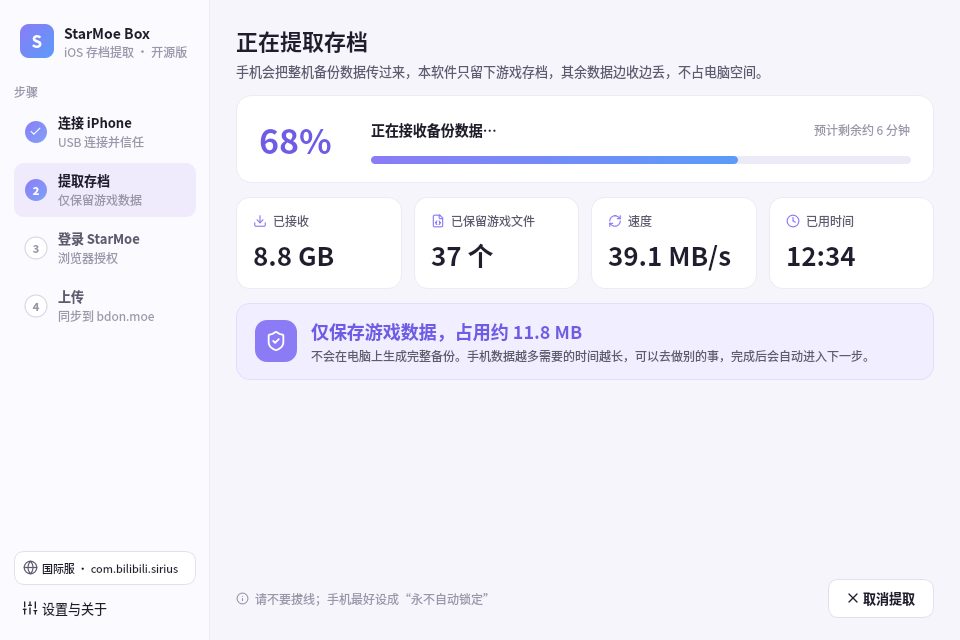
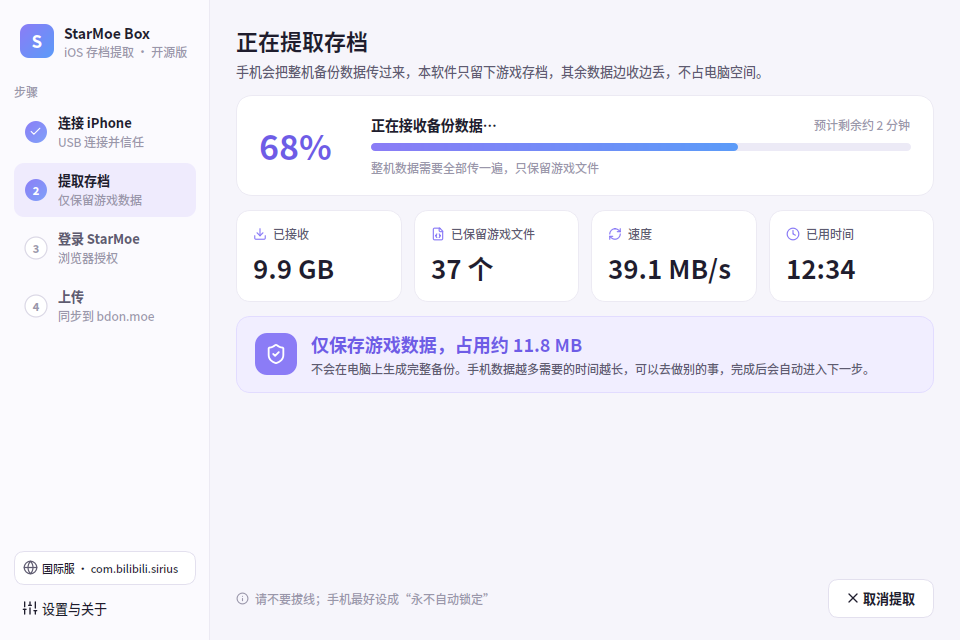
Treat the backup snapshot as preparing, and fix the ETA
The phone can sit at 0 bytes for several minutes while it snapshots. That read timeout was counted as a disconnect, so the yellow retry banner appeared before any data moved and then stayed up after the transfer recovered. Keep waiting through that idle period for up to 15 minutes, show an indeterminate preparing state, and hide the banner as soon as bytes arrive again.

The old ETA was elapsed time scaled by percent, so the snapshot wait inflated a 21-minute transfer into about three hours. Estimate the remainder from throughput over the last 45 seconds of actual transfer.

diff --git a/starmoe_ios/gui/pages.py b/starmoe_ios/gui/pages.py
@@ -21,6 +21,42 @@ def mmss(sec):
     return f"{sec // 3600}:{sec % 3600 // 60:02d}:{sec % 60:02d}" if sec >= 3600 else f"{sec // 60:02d}:{sec % 60:02d}"
 
 
+class TransferRate:
+    """最近一小段真实传输的速度。准备阶段（字节不增加）不计入。"""
+
+    def __init__(self, window=45.0):
+        self.window = window
+        self.samples = []
+        self.rate = 0.0
+
+    def observe(self, t, received, active):
+        if not active:
+            return self.rate
+        if self.samples and received < self.samples[-1][1]:
+            self.samples.clear()
+            self.rate = 0.0
+        if received <= 0 or (self.samples and received == self.samples[-1][1]):
+            return self.rate
+        self.samples.append((float(t), int(received)))
+        cutoff = t - self.window
+        while len(self.samples) >= 2 and self.samples[1][0] <= cutoff:
+            self.samples.pop(0)
+        if len(self.samples) >= 2:
+            t0, b0 = self.samples[0]
+            t1, b1 = self.samples[-1]
+            dt = t1 - t0
+            if dt > 0 and b1 > b0:
+                self.rate = (b1 - b0) / dt
+        return self.rate
+
+
+def eta_seconds(received, percent, rate):
+    """按当前速度和手机报告的百分比估算剩余秒数。与已经过去的墙钟时间无关。"""
+    if rate <= 0 or received <= 0 or not (0 < percent < 100):
+        return None
+    return received * (100.0 - percent) / percent / rate
+
+
 class Page(QWidget):
     action = Signal(str)   # 统一的动作信号（错误卡片按钮等）
 
@@ -416,7 +452,8 @@ class ExtractPage(Page):
         self.bar = QProgressBar()
         self.bar.setRange(0, 1000)
         self.bar.setTextVisible(False)
-        top.lay.addWidget(vbox(hbox(self.state, None, self.eta), self.bar, spacing=10), 1)
+        self.note = label("", "muted", wrap=True)
+        top.lay.addWidget(vbox(hbox(self.state, None, self.eta), self.bar, self.note, spacing=8), 1)
         self.body.addWidget(top)
         tiles = QHBoxLayout()
         tiles.setSpacing(12)
@@ -447,38 +484,57 @@ class ExtractPage(Page):
         self.btn_cancel = button("取消提取", None, "x")
         self.btn_cancel.clicked.connect(lambda: self.action.emit("cancel"))
         self.footer.addWidget(self.btn_cancel)
-        self._last = (0.0, 0)
+        self._rate = TransferRate()
         self._speed = 0.0
+        self._seen = 0
+        self._banner_mark = 0
 
     def reset(self):
         self.clear_error()
         self.retry.hide()
+        self._determinate()
         self.bar.setValue(0)
         self.pct.setText("0%")
         self.state.setText("正在连接 iPhone…")
         self.eta.setText("")
+        self.note.setText("")
         self.btn_cancel.setEnabled(True)
-        self._last = (time.time(), 0)
+        self._rate = TransferRate()
         self._speed = 0.0
+        self._seen = 0
+        self._banner_mark = 0
         self.update_stats(0, 0, 0, 0, 0, "connecting")
 
-    def update_stats(self, percent, received, kept, kept_bytes, elapsed, phase):
-        now = time.time()
-        t0, r0 = self._last
-        if now - t0 >= 1.0:
-            inst = (received - r0) / (now - t0)
-            self._speed = inst if not self._speed else 0.7 * self._speed + 0.3 * inst
-            self._last = (now, received)
+    def _determinate(self):
+        if self.bar.maximum() == 0:
+            self.bar.setRange(0, 1000)
+
+    def update_stats(self, percent, received, kept, kept_bytes, elapsed, phase, now=None):
+        now = time.time() if now is None else now
+        active = phase == "transferring" and received > 0
+        self._speed = self._rate.observe(now, received, active)
         p = max(0.0, min(100.0, percent))
-        self.pct.setText(f"{p:.0f}%")
-        self.bar.setValue(int(p * 10))
-        self.state.setText({"connecting": "正在连接 iPhone…",
-                            "waiting_device": "等待手机响应…如果手机要求输入密码，请输入锁屏密码",
-                            "transferring": "正在接收备份数据…", "finishing": "正在收尾…",
-                            "scanning": "正在解密并查找存档…"}.get(phase, phase))
-        if 3 < p < 100 and elapsed > 20:
-            rest = elapsed * (100 - p) / p
-            self.eta.setText(f"预计剩余约 {max(1, round(rest / 60))} 分钟")
+        if phase in ("preparing", "waiting_device") and received <= 0:
+            self.bar.setRange(0, 0)
+            self.pct.setText("…")
+            self.state.setText("手机正在准备备份数据，第一次可能需要 5–10 分钟，请保持亮屏")
+            self.eta.setText("如果手机要求输入密码，请输入锁屏密码")
+            self.note.setText("")
+        else:
+            self._determinate()
+            self.pct.setText(f"{p:.0f}%")
+            self.bar.setValue(int(p * 10))
+            self.state.setText({"connecting": "正在连接 iPhone…",
+                                "preparing": "手机正在准备备份数据，第一次可能需要 5–10 分钟，请保持亮屏",
+                                "waiting_device": "手机正在准备备份数据，第一次可能需要 5–10 分钟，请保持亮屏",
+                                "transferring": "正在接收备份数据…", "finishing": "正在收尾…",
+                                "scanning": "正在解密并查找存档…"}.get(phase, phase))
+            secs = eta_seconds(received, p, self._speed) if active else None
+            self.eta.setText(f"预计剩余约 {max(1, round(secs / 60))} 分钟" if secs else "")
+            self.note.setText("整机数据需要全部传一遍，只保留游戏文件" if active else "")
+        if not self.retry.isHidden() and received > self._banner_mark:
+            self.retry.hide()
+        self._seen = received
         self.t_recv.set(human_bytes(received))
         self.t_kept.set(f"{kept} 个")
         self.t_speed.set(f"{human_bytes(self._speed)}/s" if self._speed > 0 else "—")
@@ -487,6 +543,7 @@ class ExtractPage(Page):
             self.kept_title.setText(f"仅保存游戏数据，占用约 {human_bytes(kept_bytes)}")
 
     def set_retrying(self, n, mx):
+        self._banner_mark = self._seen
         self.retry_t.setText(f"连接中断，正在自动重试（第 {n}/{mx} 次）…")
         self.retry.show()
 

diff --git a/tests/test_gui.py b/tests/test_gui.py
@@ -54,6 +54,9 @@ def make_runner(plan, calls):
         stats.received += 1000
         if step == "hang":
             await asyncio.sleep(60)
+        if step == "prepare_timeout":
+            stats.received = 0
+            raise TimeoutError("snapshot")
         if step == "deny":
             raise StarMoeError("ERR_BACKUP_DENIED", "denied")
         if step in ("save_drop", "ok"):
@@ -108,6 +111,74 @@ QTimer.singleShot(500, w.cancel)
 finish(loop, w)
 assert ev["cancelled"] and not ev["found"], ev
 print("CANCEL OK")
+
+# 5b) 快照阶段的读超时不是断线：不弹重试横幅，并继续下一次备份
+calls = []
+w, ev, loop = run_worker(make_runner(["prepare_timeout", "ok"], calls))
+finish(loop, w)
+assert calls == ["prepare_timeout", "ok"] and ev["retrying"] == [] and ev["found"], (calls, ev)
+print("PREPARE WAIT OK")
+
+# 5c) 准备超过 15 分钟仍是 0 字节，才按断线重试
+calls = []
+
+
+async def late_prepare(bundle, out_dir, stats, on_log=None, **_):
+    step = plan_late[len(calls)]
+    calls.append(step)
+    if step == "late":
+        stats.started = time.time() - 16 * 60
+        stats.received = 0
+        raise TimeoutError("snapshot")
+    stats.udid_dir = pathlib.Path(out_dir) / "UDID"
+    stats.udid_dir.mkdir(parents=True, exist_ok=True)
+    (stats.udid_dir / "ab").mkdir(exist_ok=True)
+    (stats.udid_dir / "ab" / ("ab" + "0" * 38)).write_bytes(BLOB)
+    stats.kept += 1
+    return stats.udid_dir, False
+
+
+plan_late = ["late", "ok"]
+w, ev, loop = run_worker(late_prepare)
+finish(loop, w)
+assert calls == ["late", "ok"] and ev["retrying"] == [(1, 5)] and ev["found"], (calls, ev)
+print("PREPARE TIMEOUT OK")
+
+# 5d) ETA 用最近传输速度，不把准备阶段的空等算进去
+from starmoe_ios.gui.pages import ExtractPage, eta_seconds, TransferRate
+received = int(17.7 * 1024 ** 3)
+rate = 265.4 * 1024 ** 2
+elapsed = 10 * 60 + 48
+old_minutes = elapsed * (100 - 5) / 5 / 60
+assert old_minutes > 180   # 旧算法会得到约 205 分钟
+secs = eta_seconds(received, 5, rate)
+assert 20 * 60 <= secs <= 23 * 60, secs
+page = ExtractPage()
+t0 = 1_000_000.0
+page._rate.samples = [(t0, int(received - rate * 45))]
+page.update_stats(5, received, 3, 0, elapsed, "transferring", now=t0 + 45)
+assert page.eta.text().startswith("预计剩余约") and "187" not in page.eta.text(), page.eta.text()
+mins = int(page.eta.text().split("约")[1].split("分钟")[0])
+assert 20 <= mins <= 23, page.eta.text()
+assert page.note.text() == "整机数据需要全部传一遍，只保留游戏文件"
+assert "MB/s" in page.t_speed.v.text() or "GB/s" in page.t_speed.v.text(), page.t_speed.v.text()
+# 准备阶段：不定进度，且 0 字节样本不拉低速度
+page.update_stats(0, 0, 0, 0, 300, "preparing", now=t0 + 50)
+assert "准备备份" in page.state.text() and page.bar.maximum() == 0
+assert page._rate.rate > 0   # 准备阶段不把速度清成按全程平均
+# 重试横幅在再次收到数据后消失
+page.set_retrying(1, 5)
+assert not page.retry.isHidden()
+page.update_stats(5, received, 3, 0, elapsed, "transferring", now=t0 + 46)
+assert page.retry.isHidden()
+# 纯窗口：更早的 0 字节点若被 observe 在非传输阶段，不应进入样本
+r = TransferRate()
+r.observe(0, 0, False)
+r.observe(600, 0, False)
+r.observe(600, received - rate * 45, True)
+r.observe(645, received, True)
+assert abs(r.rate - rate) / rate < 0.02, r.rate
+print("ETA OK", page.eta.text(), page.t_speed.v.text())
 
 
 # 6) TokenStore：分字段保存、自动刷新、轮换 refresh token、退出登录

diff --git a/starmoe_ios/device.py b/starmoe_ios/device.py
@@ -24,10 +24,17 @@ def _exc_names(e):
 
 DISCONNECT_ERRORS = {"ConnectionTerminatedError", "ConnectionAbortedError", "ConnectionResetError",
                      "BrokenPipeError", "IncompleteReadError", "NoDeviceConnectedError",
-                     "ConnectionFailedError", "DeviceNotFoundError", "TimeoutError", "MuxException"}
+                     "ConnectionFailedError", "DeviceNotFoundError", "MuxException"}
+
+
+def is_idle_timeout(e):
+    """读超时：手机做快照时可能几分钟不发数据，不等于线断了。"""
+    return "TimeoutError" in _exc_names(e)
 
 
 def is_disconnect(e):
+    if is_idle_timeout(e):
+        return False
     return bool(_exc_names(e) & DISCONNECT_ERRORS) or (isinstance(e, OSError) and not isinstance(e, FileNotFoundError))
 
 
@@ -136,7 +143,7 @@ class BackupStats:
         self.dropped = 0
         self.percent = 0.0     # 手机报告的进度
         self.started = time.time()
-        self.phase = "connecting"   # connecting / waiting_device / transferring / finishing
+        self.phase = "connecting"   # connecting / preparing / transferring / finishing
         self.will_encrypt = None
         self.udid_dir = None
 
@@ -203,7 +210,7 @@ async def run_filtered_backup(bundle, out_dir, stats=None, fake_free=8 << 40, fu
         async with Mobilebackup2Service(ld) as mb:
             stats.will_encrypt = enc = await mb.get_will_encrypt()
             say(f"手机开启了备份加密: {enc}")
-            stats.phase = "waiting_device"   # 手机可能要求输入锁屏密码
+            stats.phase = "preparing"   # 手机先做快照，可能 5–10 分钟都是 0 字节
             try:
                 await mb.backup(full=full, backup_directory=out_dir, progress_callback=progress, filter_callback=keep)
             except Exception as e:

diff --git a/starmoe_ios/gui/workers.py b/starmoe_ios/gui/workers.py
@@ -5,6 +5,8 @@ from .. import core, device
 from ..errors import StarMoeError, ERR_DISCONNECTED, ERR_NO_DEVICE, ERR_NOT_TRUSTED, ERR_NETWORK
 
 log = logging.getLogger("starmoe.gui")
+# 快照阶段没有字节也不当断线；超过这个时间仍是 0 字节，才按断线重试
+PREPARE_WAIT_S = 15 * 60
 
 
 def _err(e):
@@ -124,8 +126,17 @@ class BackupWorker(QThread):
                     else:
                         self.cancelled.emit()
                     return
-                retryable = device.is_disconnect(e) or (isinstance(e, StarMoeError) and e.code in (ERR_NO_DEVICE, ERR_NOT_TRUSTED)
-                                                        and self.stats.received > 0)
+                # 还没收到任何数据时的读超时 = 手机在准备快照，安静地再开一次备份，不弹“连接中断”
+                if (device.is_idle_timeout(e) and self.stats.received == 0
+                        and time.time() - self.stats.started < PREPARE_WAIT_S):
+                    self.stats.phase = "preparing"
+                    log.info("手机仍在准备备份（尚无数据），继续等待，不记为断线：%r", e)
+                    continue
+                preparing_gave_up = (device.is_idle_timeout(e) and self.stats.received == 0
+                                     and time.time() - self.stats.started >= PREPARE_WAIT_S)
+                retryable = preparing_gave_up or device.is_disconnect(e) or (
+                    isinstance(e, StarMoeError) and e.code in (ERR_NO_DEVICE, ERR_NOT_TRUSTED)
+                    and self.stats.received > 0)
                 log.warning("备份中断（第 %d 次）：%r", attempt + 1, e)
                 if not retryable:
                     self.failed.emit(*_err(e))

diff --git a/tests/render_screenshots.py b/tests/render_screenshots.py
@@ -97,8 +97,10 @@ def main():
     x = w.p[w.X]
     w.go(w.X)
     x.reset()
-    x._last = (time.time() - 1, 9_400_000_000)
-    x.update_stats(68, 9_400_000_000 + 41_000_000, 37, 12_400_000, 754, "transferring")
+    now = time.time()
+    base = 9_400_000_000
+    x._rate.samples = [(now - 30, base)]
+    x.update_stats(68, base + 41_000_000 * 30, 37, 12_400_000, 754, "transferring", now=now)
     shot("03_extracting")
     x.set_retrying(2, 5)
     shot("03b_extracting_retry")
